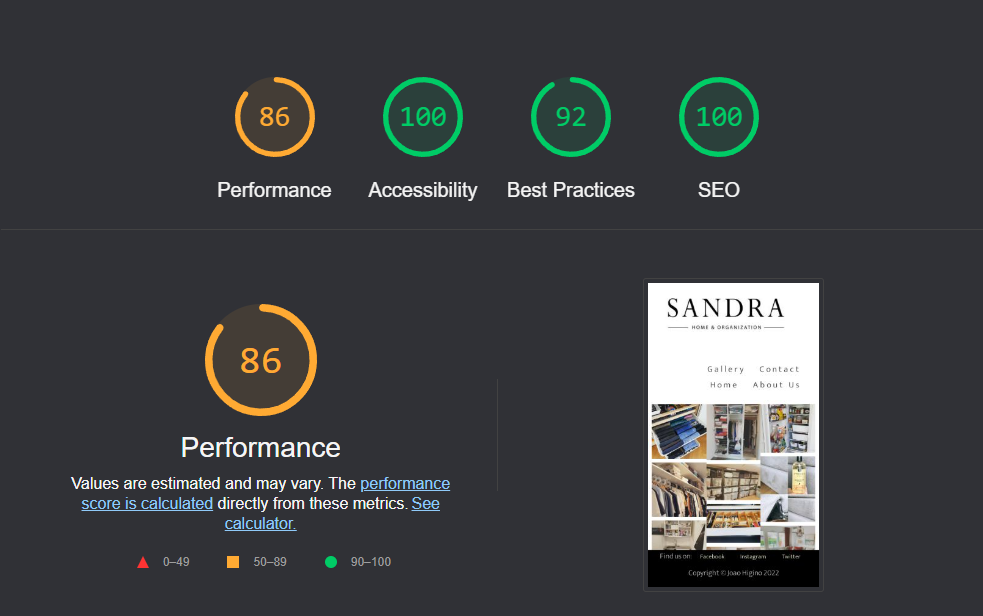
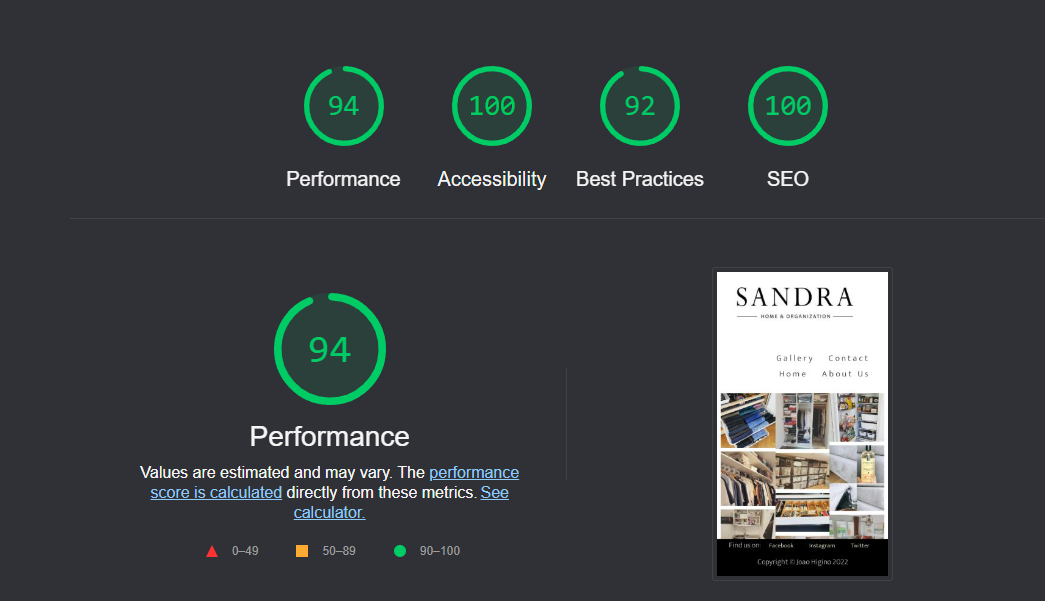
Change photos from perfomance after rerun

diff --git a/README.md b/README.md
@@ -130,7 +130,7 @@ Sandra Home and Organization is a cleaning company based in Malmo, Sweden. With 
 
  ![performance](./documentation/performance.png)
 
-   - The low performance is due to large image dimensions
+   - The site scored well
 
  ![performance](./documentation/performance-gallery.png)
 
